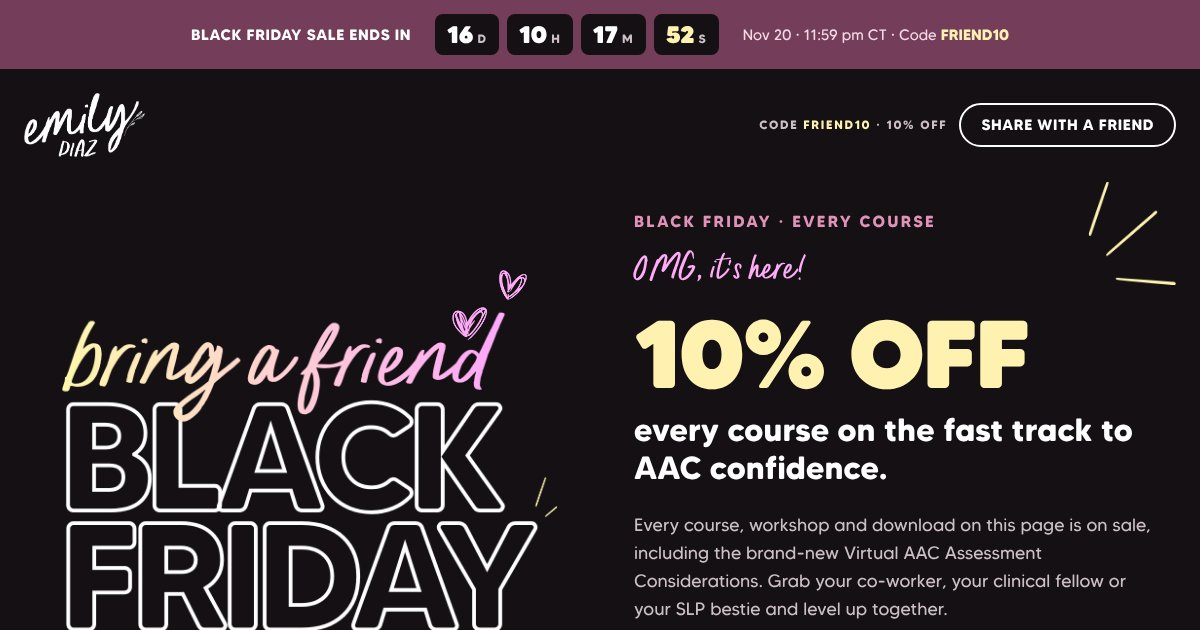
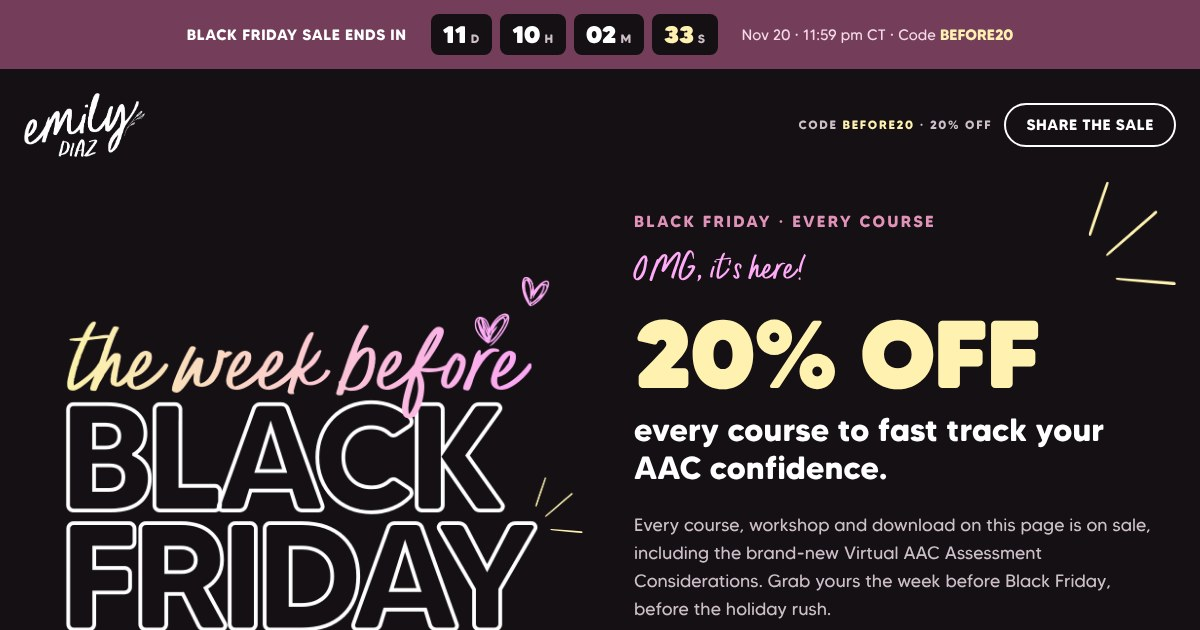
Black Friday page: new 'the week before' hero art, 20% off with code BEFORE20
Swap the hero logo script and hearts for the new artwork (animation layers kept),
change the discount to 20% and the code to BEFORE20, remove the bring-a-friend
copy while keeping the share buttons, and refresh the OG image.

Claude-Session: https://claude.ai/code/session_01UcwpYRQdmsEaYVD9v4xwbu

diff --git a/lab/landing-pages/black-friday-2026/index.html b/lab/landing-pages/black-friday-2026/index.html
@@ -5,12 +5,12 @@
 <meta name="lab-id" content="LP-006">
 <meta name="lab-published" content="2026-11-04">
 <meta name="viewport" content="width=device-width, initial-scale=1">
-<title>Black Friday Sale – 10% off every AAC course | Emily Diaz, SLP</title>
-<meta name="description" content="Every AAC course, workshop and download is 10% off for Black Friday with code FRIEND10. Sale ends November 20, 2026 at 11:59 pm CT.">
+<title>Black Friday Sale – 20% off every AAC course | Emily Diaz, SLP</title>
+<meta name="description" content="Every AAC course, workshop and download is 20% off the week before Black Friday with code BEFORE20. Sale ends November 20, 2026 at 11:59 pm CT.">
 <link rel="icon" href="assets/images/logo-layers/bf-logo-heart-top.png">
 <meta property="og:type" content="website">
-<meta property="og:title" content="Black Friday: 10% off every AAC course">
-<meta property="og:description" content="Every AAC course, workshop and download is 10% off with code FRIEND10. Sale ends Nov 20, 2026.">
+<meta property="og:title" content="Black Friday: 20% off every AAC course">
+<meta property="og:description" content="Every AAC course, workshop and download is 20% off with code BEFORE20. Sale ends Nov 20, 2026.">
 <meta property="og:image" content="https://lab.emilydiazslp.com/landing-pages/black-friday-2026/assets/images/og-image.jpg">
 <meta name="twitter:card" content="summary_large_image">
 <style>
@@ -62,10 +62,10 @@ a{color:#FFABF7}a:hover{color:#FFF2B1}
 <div style="display: flex; align-items: baseline; gap: 4px; padding: 8px 12px; border-radius: 8px; background: #141014"><span style="font-size: 24px; line-height: 1; font-weight: 900; color: #FFFFFF; font-variant-numeric: tabular-nums" data-bf="mins">00</span><span style="font-size: 12px; line-height: 16px; font-weight: 700; letter-spacing: 0.08em; text-transform: uppercase; color: #CDBFC7">m</span></div>
 <div style="display: flex; align-items: baseline; gap: 4px; padding: 8px 12px; border-radius: 8px; background: #141014"><span style="font-size: 24px; line-height: 1; font-weight: 900; color: #FFF2B1; font-variant-numeric: tabular-nums" data-bf="secs">00</span><span style="font-size: 12px; line-height: 16px; font-weight: 700; letter-spacing: 0.08em; text-transform: uppercase; color: #CDBFC7">s</span></div>
 </div>
-<span style="font-size: 15px; line-height: 20px; color: #F6D9E7">Nov 20 · 11:59 pm CT · Code <span style="font-weight: 700; color: #FFF2B1">FRIEND10</span></span>
+<span style="font-size: 15px; line-height: 20px; color: #F6D9E7">Nov 20 · 11:59 pm CT · Code <span style="font-weight: 700; color: #FFF2B1">BEFORE20</span></span>
 </div>
 <div data-bf="ended" style="display: none">
-<span style="font-size: 15px; line-height: 20px; font-weight: 700; color: #FFFFFF">The Black Friday sale has ended. Thanks for shopping with a friend!</span>
+<span style="font-size: 15px; line-height: 20px; font-weight: 700; color: #FFFFFF">The Black Friday sale has ended. Thanks for shopping!</span>
 </div>
 </div>
 </div>
@@ -73,50 +73,50 @@ a{color:#FFABF7}a:hover{color:#FFF2B1}
 <header style="max-width: 1240px; margin: 0 auto; padding: 24px 24px; box-sizing: border-box; display: flex; flex-wrap: wrap; align-items: center; justify-content: space-between; gap: 16px">
 <a href="https://emilydiazslp.com" style="display: inline-flex; align-items: center; text-decoration: none"><img src="assets/images/emily-diaz-logo-white.png" alt="Emily Diaz" style="height: 64px; width: auto; display: block"></a>
 <div style="display: flex; align-items: center; gap: 12px; flex-wrap: wrap">
-<span style="font-size: 12px; line-height: 16px; font-weight: 700; letter-spacing: 0.14em; text-transform: uppercase; color: #CDBFC7">Code <span style="color: #FFF2B1">FRIEND10</span> · 10% off</span>
-<a class="bf-btn bf-btn--secondary" href="#share" style="min-height: 44px; padding: 10px 20px">Share with a friend</a>
+<span style="font-size: 12px; line-height: 16px; font-weight: 700; letter-spacing: 0.14em; text-transform: uppercase; color: #CDBFC7">Code <span style="color: #FFF2B1">BEFORE20</span> · 20% off</span>
+<a class="bf-btn bf-btn--secondary" href="#share" style="min-height: 44px; padding: 10px 20px">Share the sale</a>
 </div>
 </header>
 
 <section style="position: relative; max-width: 1240px; margin: 0 auto; padding: 32px 24px 96px; box-sizing: border-box; display: flex; flex-wrap: wrap; align-items: center; gap: 48px">
 <img class="bf-rays-doodle" src="assets/images/doodles/rays-yellow.png" alt="" aria-hidden="true" style="position: absolute; right: 24px; top: 0; width: 88px">
 <div style="flex: 1 1 460px; min-width: 0; display: flex; justify-content: center">
-<div role="img" aria-label="Black Friday Sale – bring a friend" style="position: relative; width: 100%; max-width: 560px; aspect-ratio: 1150 / 1050">
+<div role="img" aria-label="The week before Black Friday sale" style="position: relative; width: 100%; max-width: 560px; aspect-ratio: 1150 / 1050">
 <img src="assets/images/logo-layers/bf-logo-base.png" alt="" style="position: absolute; left: 0; top: 0; width: 100%; height: 100%; display: block">
 <img class="bf-ray bf-ray--1" src="assets/images/logo-layers/bf-logo-ray-1.png" alt="" style="left: 90.522%; top: 39.81%; width: 3.043%">
 <img class="bf-ray bf-ray--2" src="assets/images/logo-layers/bf-logo-ray-2.png" alt="" style="left: 92.261%; top: 42.952%; width: 6.087%">
 <img class="bf-ray bf-ray--3" src="assets/images/logo-layers/bf-logo-ray-3.png" alt="" style="left: 93.13%; top: 50.095%; width: 6.87%">
-<div style="position: absolute; left: 79.3%; top: 10.43%; width: 0; height: 0">
+<div style="position: absolute; left: 83.391%; top: 11.762%; width: 0; height: 0">
 <span class="bf-spark" style="--dx: -34px; --dy: -18px; background: #FFF2B1; animation-delay: .15s"></span>
 <span class="bf-spark" style="--dx: -30px; --dy: 16px; background: #FFABF7; animation-delay: .15s"></span>
 <span class="bf-spark" style="--dx: -6px; --dy: -36px; background: #FFC4DF; animation-delay: .15s"></span>
 <span class="bf-spark" style="--dx: 10px; --dy: 30px; background: #FFF2B1; animation-delay: .15s"></span>
 <span class="bf-spark" style="--dx: -40px; --dy: 0px; background: #FFDBC9; animation-delay: .15s"></span>
 </div>
-<div style="position: absolute; left: 87.13%; top: 3.24%; width: 0; height: 0">
+<div style="position: absolute; left: 91.174%; top: 4.19%; width: 0; height: 0">
 <span class="bf-spark" style="--dx: 34px; --dy: -14px; background: #FFF2B1"></span>
 <span class="bf-spark" style="--dx: 30px; --dy: 18px; background: #FFABF7"></span>
 <span class="bf-spark" style="--dx: 6px; --dy: -30px; background: #FFDBC9"></span>
 <span class="bf-spark" style="--dx: 38px; --dy: 2px; background: #FFC4DF"></span>
 <span class="bf-spark" style="--dx: 14px; --dy: 30px; background: #FFF2B1"></span>
 </div>
-<div class="bf-heart" style="position: absolute; left: 75.652%; top: 6.571%; width: 7.304%; animation-delay: .15s"><img src="assets/images/logo-layers/bf-logo-heart-left.png" alt=""></div>
-<div class="bf-heart" style="position: absolute; left: 84.087%; top: 0%; width: 6.087%"><img src="assets/images/logo-layers/bf-logo-heart-top.png" alt=""></div>
+<div class="bf-heart" style="position: absolute; left: 80%; top: 8.19%; width: 6.783%; animation-delay: .15s"><img src="assets/images/logo-layers/bf-logo-heart-left.png" alt=""></div>
+<div class="bf-heart" style="position: absolute; left: 88.348%; top: 0.952%; width: 5.652%"><img src="assets/images/logo-layers/bf-logo-heart-top.png" alt=""></div>
 </div>
 </div>
 <div style="flex: 1 1 440px; min-width: 0; display: flex; flex-direction: column; gap: 24px">
 <div style="display: flex; flex-direction: column; gap: 12px">
 <span style="font-size: 16px; line-height: 16px; font-weight: 700; letter-spacing: 0.14em; text-transform: uppercase; color: #E192B9">Black Friday · Every course</span>
 <span style="font-family: &quot;Oranges And Lemons Script Upright&quot;, &quot;Oranges And Lemons Script&quot;, cursive; font-size: 52px; line-height: 1.1; color: #FFABF7">OMG, it's here!</span>
-<h1 style="margin: 0; font-size: 96px; line-height: 0.92; font-weight: 900; letter-spacing: -0.02em; text-transform: uppercase; color: #FFF2B1">10% off</h1>
+<h1 style="margin: 0; font-size: 96px; line-height: 0.92; font-weight: 900; letter-spacing: -0.02em; text-transform: uppercase; color: #FFF2B1">20% off</h1>
 <p style="margin: 0; font-size: 32px; line-height: 38px; font-weight: 700; color: #FFFFFF">every course to fast track your AAC confidence.</p>
 </div>
-<p style="margin: 0; font-size: 18px; line-height: 28px; color: #CDBFC7; max-width: 520px">Every course, workshop and download on this page is on sale, including the brand-new Virtual AAC Assessment Considerations. Grab your co-worker, your clinical fellow or your SLP bestie and level up together.</p>
+<p style="margin: 0; font-size: 18px; line-height: 28px; color: #CDBFC7; max-width: 520px">Every course, workshop and download on this page is on sale, including the brand-new Virtual AAC Assessment Considerations. Grab yours the week before Black Friday, before the holiday rush.</p>
 <div style="position: relative; display: flex; flex-direction: column; gap: 32px; max-width: 520px">
 <div style="display: flex; flex-wrap: wrap; align-items: center; justify-content: space-between; gap: 16px; padding: 20px 24px; border: 2px dashed #FFABF7; border-radius: 16px; background: #22191F; max-width: 520px; box-sizing: border-box">
 <div style="display: flex; flex-direction: column; gap: 4px">
 <span style="font-size: 12px; line-height: 16px; font-weight: 700; letter-spacing: 0.14em; text-transform: uppercase; color: #CDBFC7">Use code at checkout</span>
-<span style="font-size: 48px; line-height: 1; font-weight: 900; letter-spacing: 0.04em; color: #FFFFFF">FRIEND10</span>
+<span style="font-size: 48px; line-height: 1; font-weight: 900; letter-spacing: 0.04em; color: #FFFFFF">BEFORE20</span>
 </div>
 <button class="bf-btn bf-btn--secondary" type="button" data-bf="copy-code" aria-live="polite">Copy code</button>
 </div>
@@ -139,13 +139,13 @@ a{color:#FFABF7}a:hover{color:#FFF2B1}
 </div>
 <div style="flex: 1 1 260px; min-width: 0; display: flex; flex-direction: column; gap: 12px; padding: 24px; border-radius: 16px; background: #141014">
 <span style="width: 48px; height: 48px; border-radius: 999px; background: #FFC4DF; color: #141014; display: flex; align-items: center; justify-content: center; font-size: 22px; font-weight: 900">2</span>
-<h3 style="margin: 0; font-size: 24px; line-height: 30px; font-weight: 700">Enter FRIEND10 at checkout</h3>
+<h3 style="margin: 0; font-size: 24px; line-height: 30px; font-weight: 700">Enter BEFORE20 at checkout</h3>
 <p style="margin: 0; font-size: 15px; line-height: 24px; color: #CDBFC7">Type the code in the coupon box before you pay and watch the total drop.</p>
 </div>
 <div style="flex: 1 1 260px; min-width: 0; display: flex; flex-direction: column; gap: 12px; padding: 24px; border-radius: 16px; background: #141014">
 <span style="width: 48px; height: 48px; border-radius: 999px; background: #FFABF7; color: #141014; display: flex; align-items: center; justify-content: center; font-size: 22px; font-weight: 900">3</span>
-<h3 style="margin: 0; font-size: 24px; line-height: 30px; font-weight: 700">Send it to a friend</h3>
-<p style="margin: 0; font-size: 15px; line-height: 24px; color: #CDBFC7">Share this page with the SLP who always asks you about AAC so they can save too. <a href="#share">Share it now</a></p>
+<h3 style="margin: 0; font-size: 24px; line-height: 30px; font-weight: 700">Check out by November 20</h3>
+<p style="margin: 0; font-size: 15px; line-height: 24px; color: #CDBFC7">The sale ends Friday, November 20 at 11:59 pm CT, the week before Black Friday.</p>
 </div>
 </div>
 </div>
@@ -155,8 +155,8 @@ a{color:#FFABF7}a:hover{color:#FFF2B1}
 <img src="assets/images/doodles/sparkles-peach.png" alt="" aria-hidden="true" style="position: absolute; right: 24px; top: 72px; width: 80px">
 <div style="display: flex; flex-direction: column; gap: 12px; max-width: 760px">
 <span style="font-family: &quot;Oranges And Lemons Script&quot;, cursive; font-size: 74px; line-height: 1; color: #FFABF7">the courses</span>
-<h2 style="margin: 0; font-size: 64px; line-height: 0.95; font-weight: 900; letter-spacing: -0.01em; text-transform: uppercase">All 10% off</h2>
-<p style="margin: 0; font-size: 18px; line-height: 28px; color: #CDBFC7">Click through to any course and enter <span style="color: #FFF2B1; font-weight: 700">FRIEND10</span> at checkout.</p>
+<h2 style="margin: 0; font-size: 64px; line-height: 0.95; font-weight: 900; letter-spacing: -0.01em; text-transform: uppercase">All 20% off</h2>
+<p style="margin: 0; font-size: 18px; line-height: 28px; color: #CDBFC7">Click through to any course and enter <span style="color: #FFF2B1; font-weight: 700">BEFORE20</span> at checkout.</p>
 </div>
 
 <div style="display: flex; flex-wrap: wrap; justify-content: flex-start; gap: 32px">
@@ -165,14 +165,14 @@ a{color:#FFABF7}a:hover{color:#FFF2B1}
 <div style="position: relative; flex: 1 1 560px; min-width: 0; aspect-ratio: 1320 / 800; background: #F6D9E7">
 <img src="assets/images/thumbnails/virtual-aac-featured.webp" srcset="assets/images/thumbnails/virtual-aac-featured-660.webp 660w, assets/images/thumbnails/virtual-aac-featured.webp 1320w" sizes="(max-width: 1100px) 100vw, 660px" width="1320" height="800" loading="lazy" decoding="async" alt="Virtual AAC Assessment Considerations" style="position: absolute; left: 0; top: 0; width: 100%; height: 100%; object-fit: cover; display: block">
 <span class="bf-new" style="position: absolute; left: 10px; bottom: 10px; width: 124px; height: 124px; color: #141014; display: flex; flex-direction: column; align-items: center; justify-content: center; text-align: center; transform: rotate(-10deg); box-sizing: border-box"><span class="bf-star" aria-hidden="true"></span><span style="position: relative; font-size: 13px; line-height: 16px; font-weight: 700; letter-spacing: 0.14em; text-transform: uppercase">Brand</span><span style="position: relative; font-size: 28px; line-height: 1; font-weight: 900; text-transform: uppercase">new!</span></span>
-<span style="position: absolute; top: 16px; right: 16px; padding: 8px 14px; border-radius: 999px; background: #FFF2B1; color: #141014; font-size: 15px; line-height: 20px; font-weight: 900; text-transform: uppercase">10% off</span>
+<span style="position: absolute; top: 16px; right: 16px; padding: 8px 14px; border-radius: 999px; background: #FFF2B1; color: #141014; font-size: 15px; line-height: 20px; font-weight: 900; text-transform: uppercase">20% off</span>
 </div>
 <div style="flex: 1 1 360px; min-width: 0; display: flex; flex-direction: column; justify-content: center; gap: 16px; padding: 40px 36px">
 <span style="font-size: 12px; line-height: 16px; font-weight: 700; letter-spacing: 0.14em; text-transform: uppercase; color: #FFABF7">Just launched</span>
 <h3 style="margin: 0; font-size: 40px; line-height: 46px; font-weight: 700">Virtual AAC Assessment Considerations</h3>
 <p style="margin: 0; font-size: 18px; line-height: 28px; color: #CDBFC7">[SHORT DESCRIPTION: what this course covers and who it's for]</p>
 <div style="display: flex; flex-wrap: wrap; align-items: center; justify-content: space-between; gap: 16px; padding-top: 16px; border-top: 1px solid #3A2C35">
-<span style="font-size: 15px; line-height: 20px; color: #CDBFC7">Code <span style="color: #FFF2B1; font-weight: 700">FRIEND10</span></span>
+<span style="font-size: 15px; line-height: 20px; color: #CDBFC7">Code <span style="color: #FFF2B1; font-weight: 700">BEFORE20</span></span>
 <a class="bf-btn bf-btn--secondary" href="#">Learn more</a>
 </div>
 </div>
@@ -182,13 +182,13 @@ a{color:#FFABF7}a:hover{color:#FFF2B1}
 <div style="position: relative; aspect-ratio: 1160 / 640; background: #F6D9E7">
 <img src="assets/images/thumbnails/aac-assessment-hub.webp" srcset="assets/images/thumbnails/aac-assessment-hub-580.webp 580w, assets/images/thumbnails/aac-assessment-hub.webp 1160w" sizes="(max-width: 1100px) 100vw, 600px" width="1160" height="640" loading="lazy" decoding="async" alt="The AAC Assessment Hub" style="position: absolute; left: 0; top: 0; width: 100%; height: 100%; object-fit: cover; display: block">
 <span style="position: absolute; top: 16px; left: 16px; padding: 6px 12px; border-radius: 8px; background: #743E5A; color: #FFFFFF; font-size: 12px; line-height: 16px; font-weight: 700; letter-spacing: 0.14em; text-transform: uppercase">Signature course</span>
-<span style="position: absolute; top: 16px; right: 16px; padding: 8px 14px; border-radius: 999px; background: #FFF2B1; color: #141014; font-size: 15px; line-height: 20px; font-weight: 900; text-transform: uppercase">10% off</span>
+<span style="position: absolute; top: 16px; right: 16px; padding: 8px 14px; border-radius: 999px; background: #FFF2B1; color: #141014; font-size: 15px; line-height: 20px; font-weight: 900; text-transform: uppercase">20% off</span>
 </div>
 <div style="flex-grow: 1; display: flex; flex-direction: column; gap: 12px; padding: 28px">
 <h3 style="margin: 0; font-size: 32px; line-height: 38px; font-weight: 700">The AAC Assessment Hub</h3>
 <p style="margin: 0; font-size: 15px; line-height: 24px; color: #CDBFC7; flex-grow: 1">A step-by-step guide to conducting AAC assessments from start to finish, with data sheets and downloads.</p>
 <div style="display: flex; flex-wrap: wrap; align-items: center; justify-content: space-between; gap: 16px; padding-top: 16px; border-top: 1px solid #3A2C35">
-<span style="font-size: 15px; line-height: 20px; color: #CDBFC7">Code <span style="color: #FFF2B1; font-weight: 700">FRIEND10</span></span>
+<span style="font-size: 15px; line-height: 20px; color: #CDBFC7">Code <span style="color: #FFF2B1; font-weight: 700">BEFORE20</span></span>
 <a class="bf-btn bf-btn--secondary" href="https://emilydiazslp.com/aac-hub/always-on.html">Learn more</a>
 </div>
 </div>
@@ -198,13 +198,13 @@ a{color:#FFABF7}a:hover{color:#FFF2B1}
 <div style="position: relative; aspect-ratio: 1160 / 640; background: #FFDBC9">
 <img src="assets/images/thumbnails/aac-handbook.webp" srcset="assets/images/thumbnails/aac-handbook-580.webp 580w, assets/images/thumbnails/aac-handbook.webp 1160w" sizes="(max-width: 1100px) 100vw, 600px" width="1160" height="640" loading="lazy" decoding="async" alt="The AAC Handbook" style="position: absolute; left: 0; top: 0; width: 100%; height: 100%; object-fit: cover; display: block">
 <span style="position: absolute; top: 16px; left: 16px; padding: 6px 12px; border-radius: 8px; background: #743E5A; color: #FFFFFF; font-size: 12px; line-height: 16px; font-weight: 700; letter-spacing: 0.14em; text-transform: uppercase">PDF download</span>
-<span style="position: absolute; top: 16px; right: 16px; padding: 8px 14px; border-radius: 999px; background: #FFF2B1; color: #141014; font-size: 15px; line-height: 20px; font-weight: 900; text-transform: uppercase">10% off</span>
+<span style="position: absolute; top: 16px; right: 16px; padding: 8px 14px; border-radius: 999px; background: #FFF2B1; color: #141014; font-size: 15px; line-height: 20px; font-weight: 900; text-transform: uppercase">20% off</span>
 </div>
 <div style="flex-grow: 1; display: flex; flex-direction: column; gap: 12px; padding: 28px">
 <h3 style="margin: 0; font-size: 32px; line-height: 38px; font-weight: 700">The AAC Handbook</h3>
 <p style="margin: 0; font-size: 15px; line-height: 24px; color: #CDBFC7; flex-grow: 1">A digital handbook of simple handouts covering a range of AAC topics, for caregivers and clinicians.</p>
 <div style="display: flex; flex-wrap: wrap; align-items: center; justify-content: space-between; gap: 16px; padding-top: 16px; border-top: 1px solid #3A2C35">
-<span style="font-size: 15px; line-height: 20px; color: #CDBFC7">Code <span style="color: #FFF2B1; font-weight: 700">FRIEND10</span></span>
+<span style="font-size: 15px; line-height: 20px; color: #CDBFC7">Code <span style="color: #FFF2B1; font-weight: 700">BEFORE20</span></span>
 <a class="bf-btn bf-btn--secondary" href="https://emilydiazslp.com/handbook-always">Learn more</a>
 </div>
 </div>
@@ -214,13 +214,13 @@ a{color:#FFABF7}a:hover{color:#FFF2B1}
 <div style="position: relative; aspect-ratio: 1160 / 640; background: #FFC4DF">
 <img src="assets/images/thumbnails/when-aac-isnt-working.webp" srcset="assets/images/thumbnails/when-aac-isnt-working-580.webp 580w, assets/images/thumbnails/when-aac-isnt-working.webp 1160w" sizes="(max-width: 1100px) 100vw, 600px" width="1160" height="640" loading="lazy" decoding="async" alt="When AAC Isn't Working" style="position: absolute; left: 0; top: 0; width: 100%; height: 100%; object-fit: cover; display: block">
 <span style="position: absolute; top: 16px; left: 16px; padding: 6px 12px; border-radius: 8px; background: #743E5A; color: #FFFFFF; font-size: 12px; line-height: 16px; font-weight: 700; letter-spacing: 0.14em; text-transform: uppercase">Workshop</span>
-<span style="position: absolute; top: 16px; right: 16px; padding: 8px 14px; border-radius: 999px; background: #FFF2B1; color: #141014; font-size: 15px; line-height: 20px; font-weight: 900; text-transform: uppercase">10% off</span>
+<span style="position: absolute; top: 16px; right: 16px; padding: 8px 14px; border-radius: 999px; background: #FFF2B1; color: #141014; font-size: 15px; line-height: 20px; font-weight: 900; text-transform: uppercase">20% off</span>
 </div>
 <div style="flex-grow: 1; display: flex; flex-direction: column; gap: 12px; padding: 28px">
 <h3 style="margin: 0; font-size: 32px; line-height: 38px; font-weight: 700">When AAC Isn't Working</h3>
 <p style="margin: 0; font-size: 15px; line-height: 24px; color: #CDBFC7; flex-grow: 1">Stop the cycle of AAC abandonment. A protocol for finding the gaps in a system and resetting implementation.</p>
 <div style="display: flex; flex-wrap: wrap; align-items: center; justify-content: space-between; gap: 16px; padding-top: 16px; border-top: 1px solid #3A2C35">
-<span style="font-size: 15px; line-height: 20px; color: #CDBFC7">Code <span style="color: #FFF2B1; font-weight: 700">FRIEND10</span></span>
+<span style="font-size: 15px; line-height: 20px; color: #CDBFC7">Code <span style="color: #FFF2B1; font-weight: 700">BEFORE20</span></span>
 <a class="bf-btn bf-btn--secondary" href="https://emilydiazslp.com/when-aac-isnt-working-evergreen">Learn more</a>
 </div>
 </div>
@@ -230,13 +230,13 @@ a{color:#FFABF7}a:hover{color:#FFF2B1}
 <div style="position: relative; aspect-ratio: 1160 / 640; background: #FFF2B1">
 <img src="assets/images/thumbnails/aac-for-glp.webp" srcset="assets/images/thumbnails/aac-for-glp-580.webp 580w, assets/images/thumbnails/aac-for-glp.webp 1160w" sizes="(max-width: 1100px) 100vw, 600px" width="1160" height="640" loading="lazy" decoding="async" alt="An Introduction to AAC for Gestalt Language Processors" style="position: absolute; left: 0; top: 0; width: 100%; height: 100%; object-fit: cover; display: block">
 <span style="position: absolute; top: 16px; left: 16px; padding: 6px 12px; border-radius: 8px; background: #743E5A; color: #FFFFFF; font-size: 12px; line-height: 16px; font-weight: 700; letter-spacing: 0.14em; text-transform: uppercase">Workshop</span>
-<span style="position: absolute; top: 16px; right: 16px; padding: 8px 14px; border-radius: 999px; background: #141014; color: #FFF2B1; font-size: 15px; line-height: 20px; font-weight: 900; text-transform: uppercase">10% off</span>
+<span style="position: absolute; top: 16px; right: 16px; padding: 8px 14px; border-radius: 999px; background: #141014; color: #FFF2B1; font-size: 15px; line-height: 20px; font-weight: 900; text-transform: uppercase">20% off</span>
 </div>
 <div style="flex-grow: 1; display: flex; flex-direction: column; gap: 12px; padding: 28px">
 <h3 style="margin: 0; font-size: 32px; line-height: 38px; font-weight: 700">Introduction to AAC for GLP</h3>
 <p style="margin: 0; font-size: 15px; line-height: 24px; color: #CDBFC7; flex-grow: 1">A two-hour training for parents and professionals on AAC best practices and supporting gestalt language processors.</p>
 <div style="display: flex; flex-wrap: wrap; align-items: center; justify-content: space-between; gap: 16px; padding-top: 16px; border-top: 1px solid #3A2C35">
-<span style="font-size: 15px; line-height: 20px; color: #CDBFC7">Code <span style="color: #FFF2B1; font-weight: 700">FRIEND10</span></span>
+<span style="font-size: 15px; line-height: 20px; color: #CDBFC7">Code <span style="color: #FFF2B1; font-weight: 700">BEFORE20</span></span>
 <a class="bf-btn bf-btn--secondary" href="https://emilydiazslp.com/glp-workshop-evergreen">Learn more</a>
 </div>
 </div>
@@ -246,13 +246,13 @@ a{color:#FFABF7}a:hover{color:#FFF2B1}
 <div style="position: relative; aspect-ratio: 1160 / 640; background: #FDF6E3">
 <img src="assets/images/thumbnails/recalibrating-aac.webp" srcset="assets/images/thumbnails/recalibrating-aac-580.webp 580w, assets/images/thumbnails/recalibrating-aac.webp 1160w" sizes="(max-width: 1100px) 100vw, 600px" width="1160" height="640" loading="lazy" decoding="async" alt="Recalibrating AAC for Classroom Teams" style="position: absolute; left: 0; top: 0; width: 100%; height: 100%; object-fit: cover; display: block">
 <span style="position: absolute; top: 16px; left: 16px; padding: 6px 12px; border-radius: 8px; background: #743E5A; color: #FFFFFF; font-size: 12px; line-height: 16px; font-weight: 700; letter-spacing: 0.14em; text-transform: uppercase">Online course</span>
-<span style="position: absolute; top: 16px; right: 16px; padding: 8px 14px; border-radius: 999px; background: #FFF2B1; color: #141014; font-size: 15px; line-height: 20px; font-weight: 900; text-transform: uppercase">10% off</span>
+<span style="position: absolute; top: 16px; right: 16px; padding: 8px 14px; border-radius: 999px; background: #FFF2B1; color: #141014; font-size: 15px; line-height: 20px; font-weight: 900; text-transform: uppercase">20% off</span>
 </div>
 <div style="flex-grow: 1; display: flex; flex-direction: column; gap: 12px; padding: 28px">
 <h3 style="margin: 0; font-size: 32px; line-height: 38px; font-weight: 700">Recalibrating AAC for Classroom Teams</h3>
 <p style="margin: 0; font-size: 15px; line-height: 24px; color: #CDBFC7; flex-grow: 1">Stop being the only one who cares about AAC. A capacity-building system for school-based SLPs tired of carrying AAC alone, with small coaching shifts that actually stick. Includes 2.5 ASHA PDHs.</p>
 <div style="display: flex; flex-wrap: wrap; align-items: center; justify-content: space-between; gap: 16px; padding-top: 16px; border-top: 1px solid #3A2C35">
-<span style="font-size: 15px; line-height: 20px; color: #CDBFC7">Code <span style="color: #FFF2B1; font-weight: 700">FRIEND10</span></span>
+<span style="font-size: 15px; line-height: 20px; color: #CDBFC7">Code <span style="color: #FFF2B1; font-weight: 700">BEFORE20</span></span>
 <a class="bf-btn bf-btn--secondary" href="https://emilydiazslp.com/recalibrating-aac">Learn more</a>
 </div>
 </div>
@@ -300,28 +300,28 @@ a{color:#FFABF7}a:hover{color:#FFF2B1}
 <div class="bf-heart" style="animation-delay: .3s"><img src="assets/images/doodles/heart-yellow.png" loading="lazy" alt=""></div>
 </div>
 <div style="flex: 1 1 420px; min-width: 0; display: flex; flex-direction: column; gap: 12px">
-<span style="font-family: &quot;Oranges And Lemons Script&quot;, cursive; font-size: 56px; line-height: 1; color: #FFFFFF">bring a friend</span>
-<h2 style="margin: 0; font-size: 48px; line-height: 1; font-weight: 900; text-transform: uppercase; color: #FFFFFF">Learning AAC is better together</h2>
-<p style="margin: 0; font-size: 18px; line-height: 28px; color: #FFFFFF; max-width: 560px">Forward this page to your co-worker, your clinical fellow or your SLP bestie. Code FRIEND10 takes 10% off for them, too.</p>
+<span style="font-family: &quot;Oranges And Lemons Script&quot;, cursive; font-size: 56px; line-height: 1; color: #FFFFFF">pass it on</span>
+<h2 style="margin: 0; font-size: 48px; line-height: 1; font-weight: 900; text-transform: uppercase; color: #FFFFFF">Share the sale</h2>
+<p style="margin: 0; font-size: 18px; line-height: 28px; color: #FFFFFF; max-width: 560px">Copy the link, or send it by email or text. Code BEFORE20 takes 20% off every course until November 20.</p>
 </div>
 <div style="flex: 0 1 380px; min-width: 0; display: flex; flex-direction: column; gap: 16px; padding: 28px; border-radius: 16px; background: #141014; box-sizing: border-box">
 <div style="display: flex; align-items: baseline; justify-content: space-between; gap: 12px; flex-wrap: wrap">
 <span style="font-size: 12px; line-height: 16px; font-weight: 700; letter-spacing: 0.14em; text-transform: uppercase; color: #CDBFC7">Share the sale</span>
-<span style="font-size: 15px; line-height: 20px; color: #CDBFC7">Code <span style="font-size: 28px; font-weight: 900; color: #FFF2B1">FRIEND10</span></span>
+<span style="font-size: 15px; line-height: 20px; color: #CDBFC7">Code <span style="font-size: 28px; font-weight: 900; color: #FFF2B1">BEFORE20</span></span>
 </div>
 <div data-bf="native-share-wrap" style="display: none">
 <button class="bf-btn bf-btn--secondary" type="button" data-bf="native-share" style="width: 100%">Share…</button>
 </div>
 <button class="bf-btn bf-btn--secondary" type="button" data-bf="copy-link" aria-live="polite" style="width: 100%">Copy link</button>
-<a class="bf-btn bf-btn--secondary" href="mailto:?subject=AAC%20courses%20are%2010%25%20off%20for%20Black%20Friday%21&amp;body=OMG%2C%20Emily%20Diaz%27s%20AAC%20courses%20are%2010%25%20off%20for%20Black%20Friday%20with%20code%20FRIEND10.%20Want%20to%20take%20one%20together%3F%20https%3A%2F%2Femilydiazslp.com%2Fcourses-2" style="width: 100%">Email a friend</a>
-<a class="bf-btn bf-btn--secondary" href="sms:?&amp;body=OMG%2C%20Emily%20Diaz%27s%20AAC%20courses%20are%2010%25%20off%20for%20Black%20Friday%20with%20code%20FRIEND10.%20Want%20to%20take%20one%20together%3F%20https%3A%2F%2Femilydiazslp.com%2Fcourses-2" style="width: 100%">Text a friend</a>
+<a class="bf-btn bf-btn--secondary" href="mailto:?subject=AAC%20courses%20are%2020%25%20off%20the%20week%20before%20Black%20Friday%21&amp;body=OMG%2C%20Emily%20Diaz%27s%20AAC%20courses%20are%2020%25%20off%20the%20week%20before%20Black%20Friday%20with%20code%20BEFORE20.%20https%3A%2F%2Femilydiazslp.com%2Fcourses-2" style="width: 100%">Share by email</a>
+<a class="bf-btn bf-btn--secondary" href="sms:?&amp;body=OMG%2C%20Emily%20Diaz%27s%20AAC%20courses%20are%2020%25%20off%20the%20week%20before%20Black%20Friday%20with%20code%20BEFORE20.%20https%3A%2F%2Femilydiazslp.com%2Fcourses-2" style="width: 100%">Share by text</a>
 </div>
 </div>
 </section>
 
 <footer style="border-top: 1px solid #3A2C35">
 <div style="max-width: 1240px; margin: 0 auto; padding: 32px 24px 48px; box-sizing: border-box; display: flex; flex-wrap: wrap; justify-content: space-between; gap: 16px">
-<p style="margin: 0; font-size: 15px; line-height: 24px; color: #CDBFC7; max-width: 720px">Enter code FRIEND10 at checkout to take 10% off. Sale ends Friday, November 20, 2026 at 11:59 pm CT.</p>
+<p style="margin: 0; font-size: 15px; line-height: 24px; color: #CDBFC7; max-width: 720px">Enter code BEFORE20 at checkout to take 20% off. Sale ends Friday, November 20, 2026 at 11:59 pm CT.</p>
 <a href="https://emilydiazslp.com" style="font-size: 15px; line-height: 24px">emilydiazslp.com</a>
 </div>
 </footer>
@@ -331,10 +331,10 @@ a{color:#FFABF7}a:hover{color:#FFF2B1}
 (function () {
   // ---- Sale config -------------------------------------------------------
   var SALE_END = Date.parse('2026-11-20T23:59:59-06:00'); // Nov 20, 2026 11:59:59 pm CT (CST, UTC-6)
-  var COUPON = 'FRIEND10';
+  var COUPON = 'BEFORE20';
   var PAGE_URL = 'https://emilydiazslp.com/courses-2';
-  var SHARE_TITLE = 'AAC courses are 10% off for Black Friday!';
-  var SHARE_TEXT = "OMG, Emily Diaz's AAC courses are 10% off for Black Friday with code FRIEND10. Want to take one together? " + PAGE_URL;
+  var SHARE_TITLE = 'AAC courses are 20% off the week before Black Friday!';
+  var SHARE_TEXT = "OMG, Emily Diaz's AAC courses are 20% off the week before Black Friday with code BEFORE20. " + PAGE_URL;
 
   function $(k) { return document.querySelector('[data-bf="' + k + '"]'); }
   function pad(n) { return (n < 10 ? '0' : '') + n; }

diff --git a/lab/index.html b/lab/index.html
@@ -40,7 +40,7 @@
     <ul>
       <li><a href="/landing-pages/aac-assessment-hub/">The AAC Assessment Hub</a></li>
       <li><a href="/landing-pages/special-offer/">Managing AAC in the Classroom: special offer</a> ($12 one-time offer)</li>
-      <li><a href="/landing-pages/black-friday-2026/">Black Friday 2026: 10% off every course</a> (code FRIEND10, ends Nov 20)</li>
+      <li><a href="/landing-pages/black-friday-2026/">Black Friday 2026: 20% off every course</a> (code BEFORE20, ends Nov 20)</li>
       <li><a href="/landing-pages/call-times-survey/">Call times survey</a> (pop-up survey for Flodesk emails)</li>
     </ul>
   </main>
